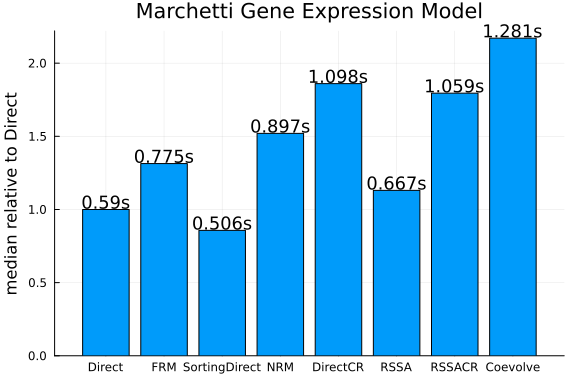
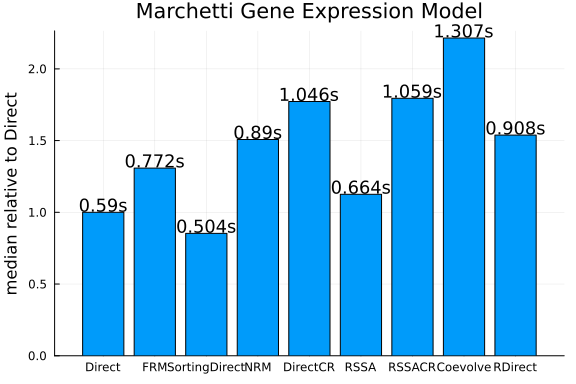
Automatic build\nPublished by build of: https://github.com/SciML/SciMLBenchmarks.jl/commit/4def5a9a66d9a7c06efec7069f2c868320d93171

diff --git a/markdown/Jumps/NegFeedback_GeneExpr_Marchetti.md b/markdown/Jumps/NegFeedback_GeneExpr_Marchetti.md
@@ -54,7 +54,7 @@ plot(solution, format=fmt)
 
 ```julia
 tf = 4000.
-methods = (Direct(), FRM(), SortingDirect(), NRM(), DirectCR(), RSSA(), RSSACR(), Coevolve() RDirect())
+methods = (Direct(), FRM(), SortingDirect(), NRM(), DirectCR(), RSSA(), RSSACR(), Coevolve(), RDirect())
 shortlabels = [string(leg)[15:end-2] for leg in methods]
 prob = prob = DiscreteProblem(rn, u0, (0.0, tf), rnpar)
 ploth = plot(reuse=false)
@@ -68,21 +68,13 @@ end
 plot(ploth, title="Protein level", xlabel="time", format=fmt)
 ```
 
-```
-Error: syntax: missing comma or ) in argument list
-```
-
-
+![](figures/NegFeedback_GeneExpr_Marchetti_4_1.png)
 
 ```julia
 plot(p[end])
 ```
 
-```
-Error: UndefVarError: `p` not defined
-```
-
-
+![](figures/NegFeedback_GeneExpr_Marchetti_5_1.png)
 
 
 
@@ -115,21 +107,6 @@ for method in methods
 end
 ```
 
-```
-Error: MethodError: no method matching iterate(::typeof(methods))
-
-Closest candidates are:
-  iterate(!Matched::Union{LinRange, StepRangeLen})
-   @ Base range.jl:880
-  iterate(!Matched::Union{LinRange, StepRangeLen}, !Matched::Integer)
-   @ Base range.jl:880
-  iterate(!Matched::T) where T<:Union{Base.KeySet{<:Any, <:Dict}, Base.Valu
-eIterator{<:Dict}}
-   @ Base dict.jl:698
-  ...
-```
-
-
 
 ```julia
 medtimes = Vector{Float64}(undef, length(methods))
@@ -151,24 +128,7 @@ ylabel!("median relative to Direct")
 title!("Marchetti Gene Expression Model")
 ```
 
-```
-Error: MethodError: no method matching length(::typeof(methods))
-
-Closest candidates are:
-  length(!Matched::Union{Base.KeySet, Base.ValueIterator})
-   @ Base abstractdict.jl:58
-  length(!Matched::Union{SparseArrays.FixedSparseVector{Tv, Ti}, SparseArra
-ys.SparseVector{Tv, Ti}} where {Tv, Ti})
-   @ SparseArrays /cache/julia-buildkite-plugin/julia_installs/bin/linux/x6
-4/1.9/julia-1.9-latest-linux-x86_64/share/julia/stdlib/v1.9/SparseArrays/sr
-c/sparsevector.jl:95
-  length(!Matched::Union{Tables.AbstractColumns, Tables.AbstractRow})
-   @ Tables /cache/julia-buildkite-plugin/depots/5b300254-1738-4989-ae0a-f4
-d2d937f953/packages/Tables/AcRIE/src/Tables.jl:180
-  ...
-```
-
-
+![](figures/NegFeedback_GeneExpr_Marchetti_8_1.png)
 
 
 ## Appendix
@@ -215,9 +175,9 @@ Status `/cache/build/exclusive-amdci1-0/julialang/scimlbenchmarks-dot-jl/benchma
   [31c24e10] Distributions v0.25.100
   [86223c79] Graphs v1.8.0
   [faf0f6d7] JumpProblemLibrary v0.1.4
-  [ccbc3e58] JumpProcesses v9.7.3
+⌃ [ccbc3e58] JumpProcesses v9.7.3
 ⌃ [961ee093] ModelingToolkit v8.66.0
-  [1dea7af3] OrdinaryDiffEq v6.55.0
+⌃ [1dea7af3] OrdinaryDiffEq v6.55.0
   [86206cdf] PiecewiseDeterministicMarkovProcesses v0.0.7
   [91a5bcdd] Plots v1.39.0
   [438e738f] PyCall v1.96.1
@@ -256,7 +216,7 @@ Status `/cache/build/exclusive-amdci1-0/julialang/scimlbenchmarks-dot-jl/benchma
   [d360d2e6] ChainRulesCore v1.16.0
   [fb6a15b2] CloseOpenIntervals v0.1.12
   [944b1d66] CodecZlib v0.7.2
-  [35d6a980] ColorSchemes v3.23.0
+⌃ [35d6a980] ColorSchemes v3.23.0
   [3da002f7] ColorTypes v0.11.4
   [c3611d14] ColorVectorSpace v0.10.0
   [5ae59095] Colors v0.12.10
@@ -279,8 +239,8 @@ Status `/cache/build/exclusive-amdci1-0/julialang/scimlbenchmarks-dot-jl/benchma
   [bcd4f6db] DelayDiffEq v5.42.0
   [8bb1440f] DelimitedFiles v1.9.1
 ⌃ [2b5f629d] DiffEqBase v6.128.2
-  [459566f4] DiffEqCallbacks v2.29.1
-  [77a26b50] DiffEqNoiseProcess v5.18.0
+⌃ [459566f4] DiffEqCallbacks v2.29.1
+⌃ [77a26b50] DiffEqNoiseProcess v5.18.0
   [163ba53b] DiffResults v1.1.0
   [b552c78f] DiffRules v1.15.1
 ⌃ [0c46a032] DifferentialEquations v7.9.0
@@ -306,13 +266,13 @@ Status `/cache/build/exclusive-amdci1-0/julialang/scimlbenchmarks-dot-jl/benchma
   [069b7b12] FunctionWrappers v1.1.3
   [77dc65aa] FunctionWrappersWrappers v0.1.3
   [46192b85] GPUArraysCore v0.1.5
-  [28b8d3ca] GR v0.72.9
+⌃ [28b8d3ca] GR v0.72.9
   [c145ed77] GenericSchur v0.5.3
   [d7ba0133] Git v1.3.0
   [c27321d9] Glob v1.3.1
   [86223c79] Graphs v1.8.0
   [42e2da0e] Grisu v1.0.2
-  [0b43b601] Groebner v0.4.2
+⌃ [0b43b601] Groebner v0.4.2
   [d5909c97] GroupsCore v0.4.0
 ⌃ [cd3eb016] HTTP v1.9.14
   [eafb193a] Highlights v0.5.2
@@ -332,7 +292,7 @@ Status `/cache/build/exclusive-amdci1-0/julialang/scimlbenchmarks-dot-jl/benchma
   [682c06a0] JSON v0.21.4
 ⌃ [98e50ef6] JuliaFormatter v1.0.35
   [faf0f6d7] JumpProblemLibrary v0.1.4
-  [ccbc3e58] JumpProcesses v9.7.3
+⌃ [ccbc3e58] JumpProcesses v9.7.3
 ⌃ [ef3ab10e] KLU v0.4.0
   [ba0b0d4f] Krylov v0.9.4
   [7f56f5a3] LSODA v0.7.4
@@ -344,7 +304,7 @@ Status `/cache/build/exclusive-amdci1-0/julialang/scimlbenchmarks-dot-jl/benchma
   [50d2b5c4] Lazy v0.15.1
   [2d8b4e74] LevyArea v1.0.0
   [d3d80556] LineSearches v7.2.0
-  [7ed4a6bd] LinearSolve v2.5.1
+⌃ [7ed4a6bd] LinearSolve v2.5.1
   [2ab3a3ac] LogExpFunctions v0.3.26
   [e6f89c97] LoggingExtras v1.0.2
   [bdcacae8] LoopVectorization v0.12.165
@@ -362,14 +322,14 @@ Status `/cache/build/exclusive-amdci1-0/julialang/scimlbenchmarks-dot-jl/benchma
   [d41bc354] NLSolversBase v7.8.3
   [2774e3e8] NLsolve v4.5.1
   [77ba4419] NaNMath v1.0.2
-  [8913a72c] NonlinearSolve v1.10.0
+⌃ [8913a72c] NonlinearSolve v1.10.0
   [6fe1bfb0] OffsetArrays v1.12.10
   [4d8831e6] OpenSSL v1.4.1
   [429524aa] Optim v1.7.7
   [bac558e1] OrderedCollections v1.6.2
-  [1dea7af3] OrdinaryDiffEq v6.55.0
-  [90014a1f] PDMats v0.11.17
-  [65ce6f38] PackageExtensionCompat v1.0.1
+⌃ [1dea7af3] OrdinaryDiffEq v6.55.0
+⌃ [90014a1f] PDMats v0.11.17
+⌃ [65ce6f38] PackageExtensionCompat v1.0.1
   [d96e819e] Parameters v0.12.3
   [69de0a69] Parsers v2.7.2
   [86206cdf] PiecewiseDeterministicMarkovProcesses v0.0.7
@@ -378,17 +338,17 @@ Status `/cache/build/exclusive-amdci1-0/julialang/scimlbenchmarks-dot-jl/benchma
   [995b91a9] PlotUtils v1.3.5
   [91a5bcdd] Plots v1.39.0
   [e409e4f3] PoissonRandom v0.4.4
-  [f517fe37] Polyester v0.7.5
+⌃ [f517fe37] Polyester v0.7.5
   [1d0040c9] PolyesterWeave v0.2.1
-  [2dfb63ee] PooledArrays v1.4.2
+⌃ [2dfb63ee] PooledArrays v1.4.2
   [85a6dd25] PositiveFactorizations v0.2.4
   [d236fae5] PreallocationTools v0.4.12
   [aea7be01] PrecompileTools v1.2.0
-  [21216c6a] Preferences v1.4.0
+⌃ [21216c6a] Preferences v1.4.0
   [08abe8d2] PrettyTables v2.2.7
   [27ebfcd6] Primes v0.5.4
   [438e738f] PyCall v1.96.1
-  [1fd47b50] QuadGK v2.8.2
+⌃ [1fd47b50] QuadGK v2.8.2
   [74087812] Random123 v1.6.1
   [fb686558] RandomExtensions v0.4.3
   [e6cf234a] RandomNumbers v1.5.3
@@ -405,16 +365,16 @@ Status `/cache/build/exclusive-amdci1-0/julialang/scimlbenchmarks-dot-jl/benchma
   [fdea26ae] SIMD v3.4.5
   [94e857df] SIMDTypes v0.1.0
   [476501e8] SLEEFPirates v0.6.39
-⌃ [0bca4576] SciMLBase v1.95.0
+⌅ [0bca4576] SciMLBase v1.95.0
   [31c91b34] SciMLBenchmarks v0.1.3
-  [e9a6253c] SciMLNLSolve v0.1.8
+⌃ [e9a6253c] SciMLNLSolve v0.1.8
   [c0aeaf25] SciMLOperators v0.3.6
   [6c6a2e73] Scratch v1.2.0
   [91c51154] SentinelArrays v1.4.0
   [efcf1570] Setfield v1.1.1
   [992d4aef] Showoff v1.0.3
   [777ac1f9] SimpleBufferStream v1.1.0
-  [727e6d20] SimpleNonlinearSolve v0.1.19
+⌃ [727e6d20] SimpleNonlinearSolve v0.1.19
   [699a6c99] SimpleTraits v0.9.4
   [ce78b400] SimpleUnPack v1.1.0
   [66db9d55] SnoopPrecompile v1.0.3
@@ -440,7 +400,7 @@ Status `/cache/build/exclusive-amdci1-0/julialang/scimlbenchmarks-dot-jl/benchma
 ⌃ [d1185830] SymbolicUtils v1.2.0
 ⌃ [0c5d862f] Symbolics v5.5.1
   [3783bdb8] TableTraits v1.0.1
-  [bd369af6] Tables v1.10.1
+⌃ [bd369af6] Tables v1.10.1
   [62fd8b95] TensorCore v0.1.1
   [8290d209] ThreadingUtilities v0.5.2
   [a759f4b9] TimerOutputs v0.5.23
@@ -472,7 +432,7 @@ Status `/cache/build/exclusive-amdci1-0/julialang/scimlbenchmarks-dot-jl/benchma
   [d7e528f0] FreeType2_jll v2.13.1+0
   [559328eb] FriBidi_jll v1.0.10+0
   [0656b61e] GLFW_jll v3.3.8+0
-  [d2c73de3] GR_jll v0.72.9+1
+⌅ [d2c73de3] GR_jll v0.72.9+1
   [78b55507] Gettext_jll v0.21.0+0
   [f8c6e375] Git_jll v2.36.1+2
 ⌃ [7746bdde] Glib_jll v2.74.0+2
@@ -497,10 +457,10 @@ Status `/cache/build/exclusive-amdci1-0/julialang/scimlbenchmarks-dot-jl/benchma
   [efe28fd5] OpenSpecFun_jll v0.5.5+0
   [91d4177d] Opus_jll v1.3.2+0
   [30392449] Pixman_jll v0.42.2+0
-  [c0090381] Qt6Base_jll v6.4.2+3
+⌅ [c0090381] Qt6Base_jll v6.4.2+3
   [f50d1b31] Rmath_jll v0.4.0+0
 ⌅ [fb77eaff] Sundials_jll v5.2.2+0
-  [a2964d1f] Wayland_jll v1.21.0+0
+⌃ [a2964d1f] Wayland_jll v1.21.0+0
   [2381bf8a] Wayland_protocols_jll v1.25.0+0
   [02c8fc9c] XML2_jll v2.10.4+0
   [aed1982a] XSLT_jll v1.1.34+0
@@ -537,7 +497,7 @@ Status `/cache/build/exclusive-amdci1-0/julialang/scimlbenchmarks-dot-jl/benchma
   [f27f6e37] libvorbis_jll v1.3.7+1
   [1270edf5] x264_jll v2021.5.5+0
   [dfaa095f] x265_jll v3.5.0+0
-  [d8fb68d0] xkbcommon_jll v1.4.1+0
+⌃ [d8fb68d0] xkbcommon_jll v1.4.1+0
   [0dad84c5] ArgTools v1.1.1
   [56f22d72] Artifacts
   [2a0f44e3] Base64
